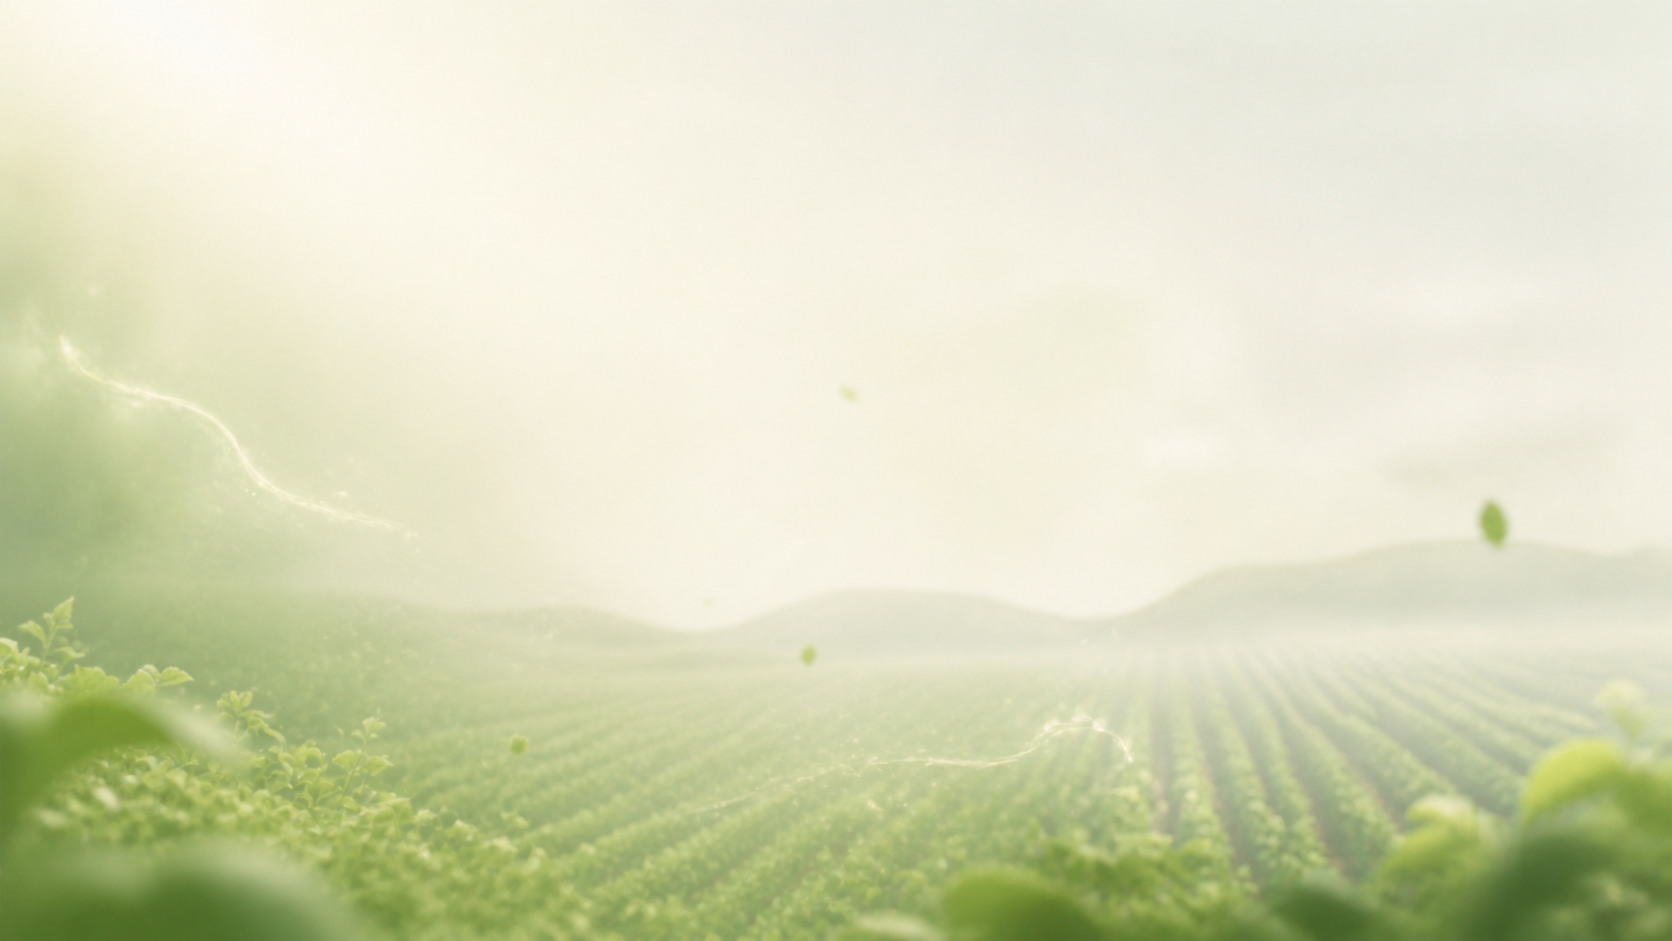
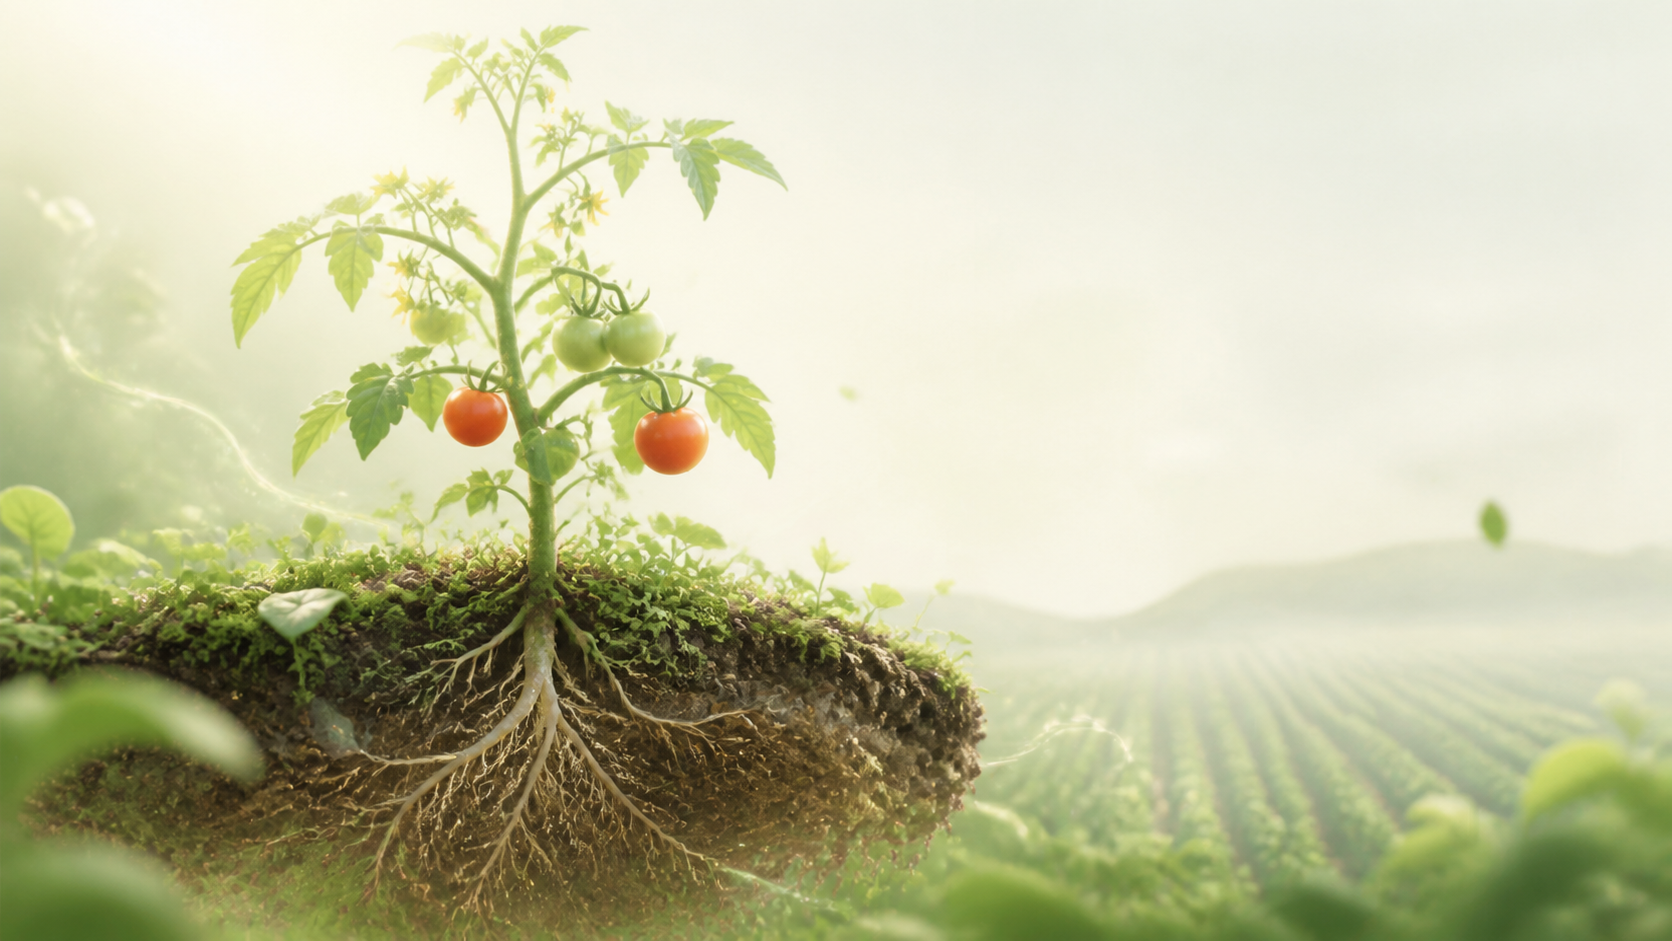
feat: harden quhl login session integration

Changed region(s): [[0.0, 0.0308, 0.622, 1.0], [0.0311, 0.2157, 0.0622, 0.2465]]

diff --git a/apps/web-ui/js/api.js b/apps/web-ui/js/api.js
@@ -9,12 +9,14 @@
 import { MOCK_DATA } from './mock-data.js';
 
 export class ApiError extends Error {
-  constructor(message, { status = 0, code = 'API_ERROR', payload = null } = {}) {
-    super(message);
+  constructor(message, { status = 0, code = 'API_ERROR', payload = null, details = {}, isNetworkError = false, cause } = {}) {
+    super(message, cause ? { cause } : undefined);
     this.name = 'ApiError';
     this.status = status;
     this.code = code;
     this.payload = payload;
+    this.details = details;
+    this.isNetworkError = isNetworkError;
   }
 }
 
@@ -23,6 +25,7 @@ export class ApiService {
     this.baseUrl = baseUrl.replace(/\/$/, '');
     this.token = localStorage.getItem('agriloop_token') || '';
     this.user = this.readStoredUser();
+    this.sessionMode = localStorage.getItem('agriloop_session_mode') || (this.token ? 'live' : 'demo');
     this.isLive = false;
     this.sseSource = null;
   }
@@ -42,43 +45,85 @@ export class ApiService {
   }
 
   isAuthenticated() {
-    return Boolean(this.token);
+    // 离线演示会话只在后端不可用时视为已登录；一旦服务在线，仍必须提供 JWT。
+    return Boolean(this.token || (!this.isLive && this.sessionMode === 'demo' && this.user));
   }
 
-  async login(username, password) {
+  async login(credentials, password) {
+    const { username, password: secret } = typeof credentials === 'object'
+      ? (credentials || {})
+      : { username: credentials, password };
     const resp = await this._fetch('/api/v1/auth/login', {
       method: 'POST',
-      body: JSON.stringify({ username, password })
+      body: JSON.stringify({ username, password: secret })
     }, { auth: false });
     const session = resp?.data || resp;
-    if (!session?.accessToken) {
+    if (!session?.accessToken || !session?.user?.username || !session?.user?.role) {
       throw new ApiError('登录响应缺少 accessToken', { code: 'AUTH_RESPONSE_INVALID', payload: resp });
     }
-    this.token = session.accessToken;
-    this.user = session.user || null;
-    localStorage.setItem('agriloop_token', this.token);
-    if (this.user) localStorage.setItem('agriloop_user', JSON.stringify(this.user));
+    this.saveSession({ mode: 'live', token: session.accessToken, user: session.user });
     return session;
+  }
+
+  async getCurrentUser() {
+    const resp = await this._fetch('/api/v1/auth/me');
+    const user = resp?.data || resp;
+    if (user) {
+      this.user = user;
+      localStorage.setItem('agriloop_user', JSON.stringify(user));
+    }
+    return user;
+  }
+
+  saveSession({ mode, token = '', user }) {
+    if (!user?.username || !user?.role || !['live', 'demo'].includes(mode)) {
+      throw new ApiError('会话数据无效', { code: 'SESSION_INVALID' });
+    }
+    if (mode === 'live' && !token) {
+      throw new ApiError('实时会话缺少访问令牌', { code: 'SESSION_TOKEN_MISSING' });
+    }
+    this.sessionMode = mode;
+    this.token = mode === 'live' ? token : '';
+    this.user = user;
+    localStorage.setItem('agriloop_user', JSON.stringify(user));
+    localStorage.setItem('agriloop_session_mode', mode);
+    if (this.token) localStorage.setItem('agriloop_token', this.token);
+    else localStorage.removeItem('agriloop_token');
+  }
+
+  readSession() {
+    const mode = localStorage.getItem('agriloop_session_mode') || (this.token ? 'live' : 'demo');
+    const token = localStorage.getItem('agriloop_token') || '';
+    const user = this.readStoredUser();
+    if (!user?.username || !user?.role) return null;
+    if (mode === 'live' && token) return { mode, token, user };
+    if (mode === 'demo' && !token) return { mode, token: '', user };
+    return null;
   }
 
   async restoreSession() {
     if (!this.isAuthenticated()) return null;
     try {
-      const resp = await this._fetch('/api/v1/auth/me');
-      this.user = resp?.data || resp;
-      if (this.user) localStorage.setItem('agriloop_user', JSON.stringify(this.user));
-      return this.user;
+      return await this.getCurrentUser();
     } catch (e) {
-      if (e.status === 401 || e.code === 'AUTH_REQUIRED' || e.code === 'AUTH_INVALID') this.logout();
+      if (e.status === 401 || e.code === 'AUTH_REQUIRED' || e.code === 'AUTH_INVALID') this.clearSession();
       return null;
     }
   }
 
   logout() {
+    this.clearSession();
+  }
+
+  clearSession() {
     this.token = '';
     this.user = null;
+    this.sessionMode = null;
+    this.sseSource?.close();
+    this.sseSource = null;
     localStorage.removeItem('agriloop_token');
     localStorage.removeItem('agriloop_user');
+    localStorage.removeItem('agriloop_session_mode');
   }
 
   async checkHealth() {
@@ -559,31 +604,42 @@ export class ApiService {
   }
 
   async _fetch(path, options = {}, { auth = true } = {}) {
+    const { auth: optionAuth = auth, ...fetchOptions } = options;
     const headers = {
       'Content-Type': 'application/json',
       'Accept': 'application/json',
-      ...(auth && this.token ? { 'Authorization': `Bearer ${this.token}` } : {}),
+      ...(optionAuth && this.token ? { 'Authorization': `Bearer ${this.token}` } : {}),
       ...(options.headers || {})
     };
-    const response = await fetch(`${this.baseUrl}${path}`, { ...options, headers });
-    const raw = await response.text();
+    let response;
+    try {
+      response = await fetch(`${this.baseUrl}${path}`, { ...fetchOptions, headers });
+    } catch (error) {
+      throw new ApiError('无法连接后端服务', {
+        code: 'NETWORK_ERROR',
+        isNetworkError: true,
+        cause: error
+      });
+    }
+
     let payload = null;
-    if (raw) {
-      try {
-        payload = JSON.parse(raw);
-      } catch (e) {
-        payload = { raw };
-      }
+    try {
+      payload = await response.json();
+    } catch {
+      payload = null;
     }
     if (!response.ok) {
       const error = payload?.error || {};
       throw new ApiError(error.message || `HTTP Error ${response.status}: ${response.statusText}`, {
         status: response.status,
         code: error.code || `HTTP_${response.status}`,
-        payload
+        payload,
+        details: error.details || {},
+        isNetworkError: [502, 503, 504].includes(response.status)
       });
     }
-    return payload || {};
+    if (!payload) throw new ApiError('服务响应不是有效 JSON', { code: 'RESPONSE_INVALID' });
+    return payload;
   }
 }
 

diff --git a/apps/web-ui/js/login-webgl.js b/apps/web-ui/js/login-webgl.js
@@ -1,3 +1,5 @@
+import { api } from './api.js';
+
 const reducedMotion = window.matchMedia('(prefers-reduced-motion: reduce)').matches;
 const roles = {
   admin: { role: 'FARM_ADMIN', label: '农场管理员' },
@@ -345,21 +347,7 @@ demoPanel.querySelectorAll('[data-user]').forEach((button) => {
 forgotPassword.addEventListener('click', () => showToast('演示环境暂不发送重置邮件'));
 
 async function authenticate(account, secret) {
-  const response = await fetch('/api/v1/auth/login', {
-    method: 'POST',
-    headers: { 'Content-Type': 'application/json', 'Accept': 'application/json' },
-    body: JSON.stringify({ username: account, password: secret })
-  });
-  const payload = await response.json().catch(() => null);
-  const session = payload?.data || payload;
-  if (!response.ok || !session?.accessToken) {
-    const error = new Error(response.status === 401 ? '账号或密码不正确' : '登录服务暂时不可用');
-    error.status = response.status;
-    throw error;
-  }
-  localStorage.setItem('agriloop_token', session.accessToken);
-  if (session.user) localStorage.setItem('agriloop_user', JSON.stringify(session.user));
-  return session;
+  return api.login({ username: account, password: secret });
 }
 
 form.addEventListener('submit', async (event) => {
@@ -383,13 +371,20 @@ form.addEventListener('submit', async (event) => {
       roleLabel: selected.label,
       avatar: ''
     };
-    localStorage.setItem('agriloop_user', JSON.stringify(user));
+    api.saveSession({ mode: 'live', token: session.accessToken, user });
     showToast('欢迎进入' + (user.roleLabel || selected.label) + '工作台');
     window.setTimeout(() => { window.location.href = 'index.html'; }, reducedMotion ? 100 : 500);
   } catch (error) {
-    formError.textContent = error.message || '登录失败，请稍后重试';
-    submitButton.disabled = false;
-    submitButton.classList.remove('is-loading');
+    if (error?.isNetworkError && password.value === 'demo123' && roles[account]) {
+      const demo = { username: account, role: roles[account].role, roleLabel: roles[account].label, avatar: '' };
+      api.saveSession({ mode: 'demo', user: demo });
+      showToast('已进入' + demo.roleLabel + '演示模式');
+      window.setTimeout(() => { window.location.href = 'index.html'; }, reducedMotion ? 100 : 500);
+    } else {
+      formError.textContent = error?.status === 401 ? '账号或密码不正确' : (error.message || '登录失败，请稍后重试');
+      submitButton.disabled = false;
+      submitButton.classList.remove('is-loading');
+    }
   }
 });
 
@@ -401,5 +396,9 @@ function showToast(message) {
   toastTimer = window.setTimeout(() => toast.classList.remove('is-visible'), 2300);
 }
 
-initBackgroundMotion();
-requestAnimationFrame(() => document.body.classList.add('is-mounted'));
+if (api.readSession()) {
+  window.location.replace('index.html');
+} else {
+  initBackgroundMotion();
+  requestAnimationFrame(() => document.body.classList.add('is-mounted'));
+}

diff --git a/apps/web-ui/js/app.js b/apps/web-ui/js/app.js
@@ -977,7 +977,8 @@ class AgriApp {
       window.location.hash = expect;
     }
     // 手动派发，驱动 handleRoute（幂等去重防重复渲染）
-    window.dispatchEvent(new HashChangeEvent('hashchange'));
+    const HashChange = window.HashChangeEvent || window.Event;
+    window.dispatchEvent(new HashChange('hashchange'));
   }
 
   navigate(viewName, params = {}) {
@@ -1093,7 +1094,8 @@ class AgriApp {
     if (this._savedScrollPos !== null) {
       const pos = this._savedScrollPos;
       this._savedScrollPos = null;
-      requestAnimationFrame(() => {
+      const restoreScroll = window.requestAnimationFrame || ((callback) => window.setTimeout(callback, 0));
+      restoreScroll(() => {
         try { window.scrollTo(pos.x, pos.y); } catch (e) { /* noop */ }
       });
     }

diff --git a/apps/web-ui/login.html b/apps/web-ui/login.html
@@ -62,6 +62,6 @@
     <div class="toast" id="toast" role="status" aria-live="polite"></div>
   </main>
 
-  <script src="js/login-webgl.js?v=20260823-motion" defer></script>
+  <script type="module" src="js/login-webgl.js?v=20260823-motion"></script>
 </body>
 </html>

diff --git a/PROJECT_STATUS.md b/PROJECT_STATUS.md
@@ -5,7 +5,7 @@
 > 当前周期：15 天软件仿真交付
 > 当前总状态：**v1.0 后端已实现并完成远端验收；最小 Web 登录/Copilot 入口与农田动态监测切片已发布，完整业务前端、真实硬件和生产级视觉/语音仍按范围不实现**
 
-> 本次实现工作区：Spring Boot 3 + Java 17 模块化单体、PostgreSQL/Flyway、Redis Streams、MQTT、SSE、JWT/RBAC、规则优先 Agent、两个 Crop Pack、确定性模拟器、P0/P1/P2 后端合同、自动化测试和 Supervisor 远端部署。远端复现证据见 [`docs/acceptance/REMOTE_ACCEPTANCE.md`](docs/acceptance/REMOTE_ACCEPTANCE.md)；农田监测前端证据见 [`docs/acceptance/FRONTEND_FARM_MONITOR_ACCEPTANCE.md`](docs/acceptance/FRONTEND_FARM_MONITOR_ACCEPTANCE.md)。
+> 本次实现工作区：Spring Boot 3 + Java 17 模块化单体、PostgreSQL/Flyway、Redis Streams、MQTT、SSE、JWT/RBAC、规则优先 Agent、两个后端 Crop Pack（前端演示注册表扩展到四个）、确定性模拟器、P0/P1/P2 后端合同、自动化测试和 Supervisor 远端部署。远端复现证据见 [`docs/acceptance/REMOTE_ACCEPTANCE.md`](docs/acceptance/REMOTE_ACCEPTANCE.md)；农田监测前端证据见 [`docs/acceptance/FRONTEND_FARM_MONITOR_ACCEPTANCE.md`](docs/acceptance/FRONTEND_FARM_MONITOR_ACCEPTANCE.md)。
 
 > 2026-08-23 main 部署记录：公网环境继续使用 GitHub `main` 的后端与 AI 配置；本次合并不引入名为 `task5` 的分支，但完整吸收 `yyx` 分支的预测/情景回放/价值账本/Crop Pack/命令面板与首页摘要更新。远端已启用 OpenAI-compatible Qwen3.8-27B，并加载保守的 LoRA 表达适配器 `agriloop-qwen38-agri`；规则、数据库和 RAG 仍是事实与安全边界的唯一来源，模型只生成解释文本。思维输出已关闭，后端/浏览器均过滤内部字段，并对离线、降级质量和控制命令执行二次安全拦截。公网 Web/API：`https://u558871-7873be733236.westd.seetacloud.com:8443/agriloop/`。PostgreSQL、Redis、MQTT 和 vLLM 保持内部访问；API 仅由 Nginx 代理。
 
@@ -61,7 +61,7 @@
 - 远端固定验收已通过：健康、JWT/RBAC、1,000+ 事件、Redis Streams、MQTT、SSE、干旱/漂移分流、非成功 ACK、成功 ACK、回放隔离、资源约束、价值账本、案例和策略状态机。
 - 收口补丁已复验：持久化重启后的 `eventId` 去重、失败/超时命令不占用成功冷却、资源越权拒绝、统一 401/403 envelope、可重复黑盒验收、停止旧 JVM 后再替换 JAR 的部署脚本；当前 API 错误日志为空。
 - `lxh-frontend` 最新 3D 数字孪生切片已合入 `main`：Three.js 实时山地/水面/作物/树冠/云雨、顶点风场、昼夜光照、天气坞、地块拾取和详情面板均已落盘；本地运行时使用仓库内 Three.js 与 Phosphor 资源，不依赖 CDN。验收记录见 `docs/acceptance/FRONTEND_FARM_MONITOR_ACCEPTANCE.md`。
-- `quhl` 的最新 ambient WebGL 登录背景已吸收，登录提交继续走真实 `/api/v1/auth/login` 与 JWT；`rium_dev` 的整页 Three.js/液态玻璃替代主站与认证、3D 监测入口冲突，因此只记录评审关系、不替换默认主站；`yyx` 分支的增强功能已吸收（按需 ECharts/SVG 图表、预测与双轨回放、价值账本、Crop Pack 注册表、⌘K 命令面板、首页摘要），仅不合并名为 `task5` 的独立分支。
+- `quhl` 最新登录改版已评审：采用其更真实的番茄/根系背景资产和会话错误处理，但保留当前更有层次的 WebGL 视差/动效，并把真实 JWT、离线演示会话和 API 错误合同接入同一登录脚本；`rium_dev` 最新整页 Three.js/液态玻璃替代主站与认证、3D 监测入口冲突，因此只保留评审合并关系、不替换默认主站；`yyx` 分支的增强功能已吸收（按需 ECharts/SVG 图表、预测与双轨回放、价值账本、番茄/黄瓜/草莓/辣椒 Crop Pack 注册表、⌘K 命令面板、首页摘要），仅不合并名为 `task5` 的独立分支。
 - 可选后续工作：补充完整业务前端页面、答辩 PPT/录屏、专项压测和真实硬件适配；这些不计入本期后端完成声明。
 
 ## 3. 阶段门

diff --git a/TASKS.md b/TASKS.md
@@ -6,7 +6,7 @@
 
 > 2026-08-23 GitHub `main` 的后端、AI 和公网部署链路已完成验收；本次合并不引入名为 `task5` 的分支，但保留 `yyx` 分支中已实现的预测、双轨回放、价值账本、Crop Pack 注册表、命令面板和首页摘要。凡标记“已完成（后端）”均以 `docs/acceptance/REMOTE_ACCEPTANCE.md`、Gradle 测试和远端黑盒证据为准；完整业务前端仍不在本期后端交付范围。
 >
-> 2026-08-23 已将远端最新 `lxh-frontend` 3D 数字孪生切片合入 `main`；`quhl` 吸收 ambient 登录背景并保留真实 JWT；`rium_dev` 的整页液态玻璃替代主站不替换默认认证/监测入口；`yyx` 的相关增强模块和回归脚本已适配当前主线，仅不合并名为 `task5` 的分支。
+> 2026-08-23 已将远端最新 `lxh-frontend` 3D 数字孪生切片合入 `main`；`quhl` 采用最新真实作物背景资产并保留当前 WebGL 动效，同时接入真实 JWT/离线演示会话；`rium_dev` 的整页液态玻璃替代主站不替换默认认证/监测入口；`yyx` 的相关增强模块和回归脚本已适配当前主线，仅不合并名为 `task5` 的分支。
 
 ## 1. 使用说明
 
@@ -60,7 +60,7 @@
 | T-038 | P1 | 完整决策护照：来源、预测、就绪度、工具、安全、人工动作、执行、效果、价值 | 项目组 | — | D12/D13 | 已完成（后端） | `/decision-passports/{traceId}` |
 | T-039 | P2 | 策略候选 DRAFT->OFFLINE_VALIDATED->APPROVED->ACTIVE/ROLLBACK 工作流 | 项目组 | — | D15+ | 已完成（后端） | 离线验证接口、状态机、禁止跳过验证 |
 | T-040 | P0 | main 版本公网部署与 OpenAI-compatible Qwen 接入 | 项目组 | — | D15+ | 已完成（远端验收） | `6183803`、AutoDL 6006 自定义服务 `/agriloop/`、`degraded=false` Agent 黑盒证据、LoRA v3 双 GPU 回归 |
-| T-041 | P0 | 分支前端对比、合并与回归验收 | 项目组 | — | D15+ | 已完成 | 最新 `lxh-frontend` 3D 监测切片；`quhl` ambient 登录背景 + 真实 JWT；`yyx` 预测/情景双轨/价值账本/Crop Pack/命令面板/首页摘要均已适配并通过 svg/stub/real 回归；`rium_dev` 仅保留评审关系；未合并名为 `task5` 的分支 |
+| T-041 | P0 | 分支前端对比、合并与回归验收 | 项目组 | — | D15+ | 已完成 | 最新 `lxh-frontend` 3D 监测切片（全图雨云/漫游/18 槽位）；`quhl` 最新真实作物背景 + 保留 WebGL 动效 + JWT/离线演示会话；`yyx` 预测/情景双轨/价值账本/四类 Crop Pack/命令面板/首页摘要均已适配并通过 svg/stub/real 回归；`rium_dev` 仅保留评审关系；未合并名为 `task5` 的分支 |
 
 ### 2.1 核心八项能力任务映射
 

diff --git a/design-qa.md b/design-qa.md
@@ -61,7 +61,13 @@ Not required for this directional synthesis: it is not a pixel clone of one sour
 
 - 已将 `yyx` 分支的相关实现适配当前主线：预测仪表盘与置信带、情景注入和 `EXECUTE/NO_ACTION` 双轨回放、价值账本、Crop Pack 阶段/规则/知识阅读器、⌘K 命令面板和首页三张摘要卡。
 - 图表资源使用仓库内 `vendor/echarts.min.js` 按需加载；ECharts 不可用时自动回退纯 SVG，命令面板和动态模块均不阻断登录、Qwen 或 3D 监测主线。
-- 回归证据：`scripts/verify-webui.mjs` 在 `svg`、`stub`、`real` 三种模式均通过（46/46、46/46、47/47；real 模式确认 ECharts 5.5.1）。
+- 回归证据：`scripts/verify-webui.mjs` 在 `svg`、`stub`、`real` 三种模式均通过（48/48、48/48、49/49；real 模式确认 ECharts 5.5.1）。
 - 范围说明：未合并名为 `task5` 的独立分支；这不影响吸收 `yyx` 分支本身已经提交的相关功能。
 
 final result: passed
+
+## Latest quhl Login Integration
+
+- 最新 `quhl` 提供的真实番茄/根系背景资产已替换旧登录纹理；当前保留 WebGL 视差、风场和 reduced-motion 降级，因此静态背景不可用时仍有明确回退。
+- 登录脚本现在通过 `ApiService` 校验统一 envelope、保存 JWT、清理过期会话，并在后端不可达时仅以 `demo123` 进入标明的离线演示模式；不把演示身份冒充为在线 AI 会话。
+- `rium_dev` 的整页液态玻璃/启动动画方案已做兼容性评审，因会删除当前认证与 3D 监测入口，不覆盖默认主线。

diff --git a/docs/acceptance/FRONTEND_FARM_MONITOR_ACCEPTANCE.md b/docs/acceptance/FRONTEND_FARM_MONITOR_ACCEPTANCE.md
@@ -77,6 +77,6 @@
 
 ## 7. yyx 增强模块回归
 
-- `scripts/verify-webui.mjs` 已在 `svg`、`stub`、`real` 三种模式通过，分别覆盖预测仪表盘、情景双轨回放、OFFLINE/漂移降级、价值账本、两个 Crop Pack、首页摘要和命令面板。
-- 结果：`svg 46/46`、`stub 46/46`、`real 47/47`（real 模式本地加载 vendored ECharts 5.5.1）。
+- `scripts/verify-webui.mjs` 已在 `svg`、`stub`、`real` 三种模式通过，分别覆盖预测仪表盘、情景双轨回放、OFFLINE/漂移降级、价值账本、四个 Crop Pack（番茄/黄瓜/草莓/辣椒）、首页摘要和命令面板。
+- 结果：`svg 48/48`、`stub 48/48`、`real 49/49`（real 模式本地加载 vendored ECharts 5.5.1）。
 - 不合并名为 `task5` 的独立分支；上述 yyx 功能来自 `yyx` 分支本身，已适配并与主线认证、模拟器和 3D 监测共存。
